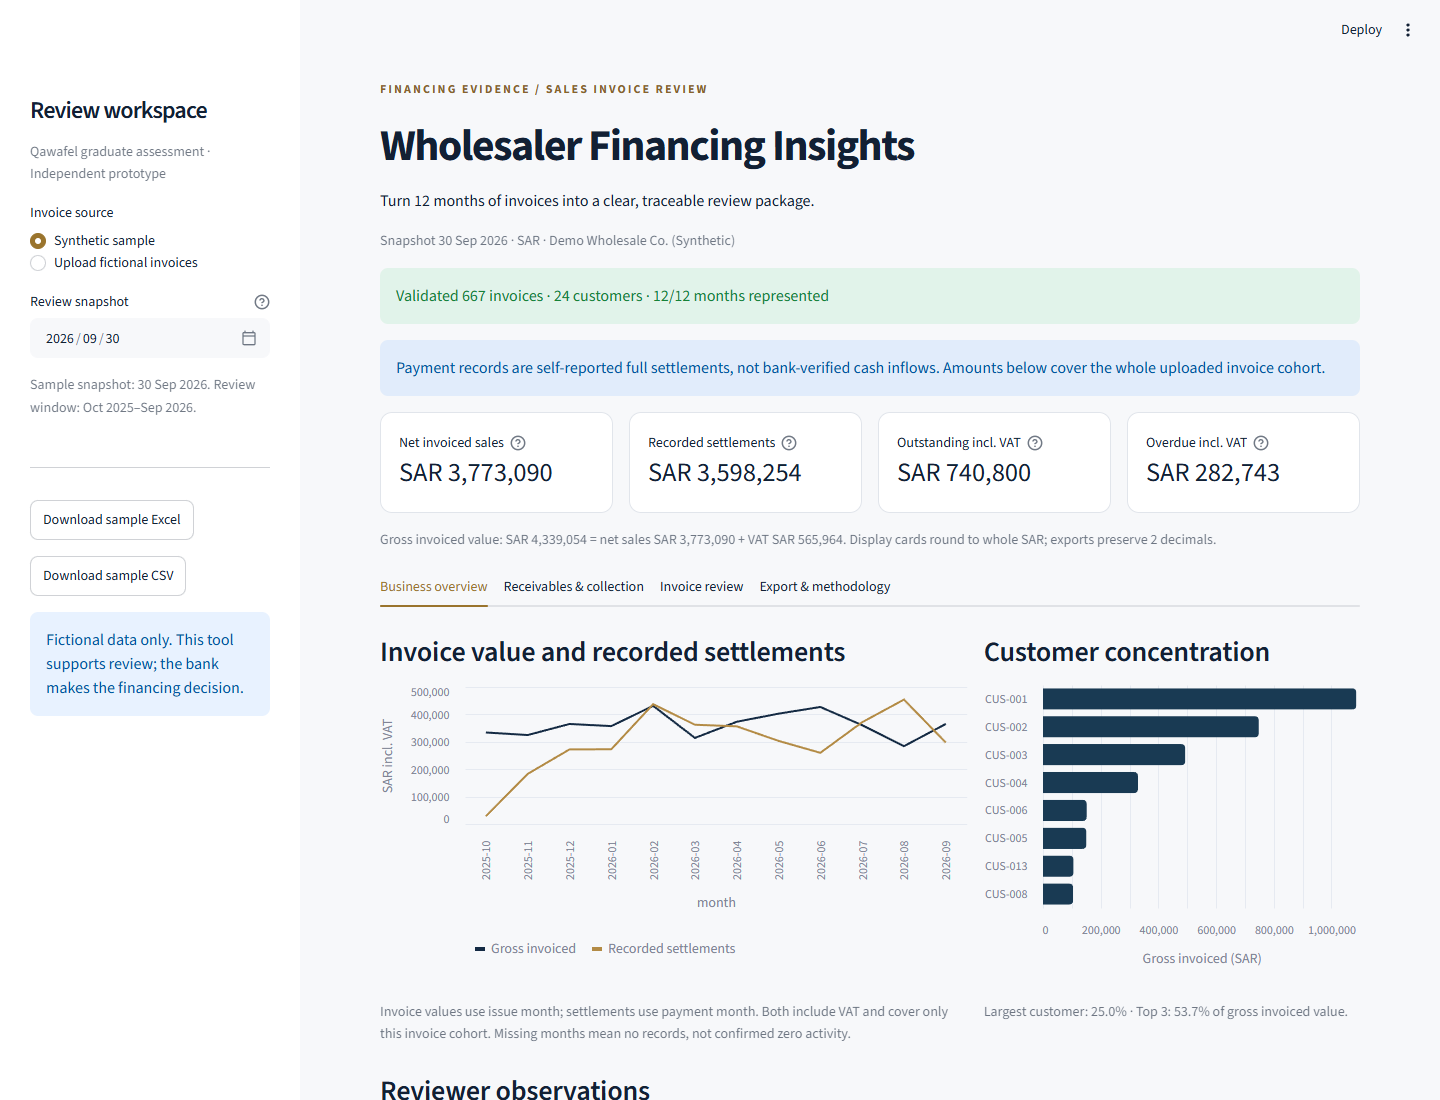
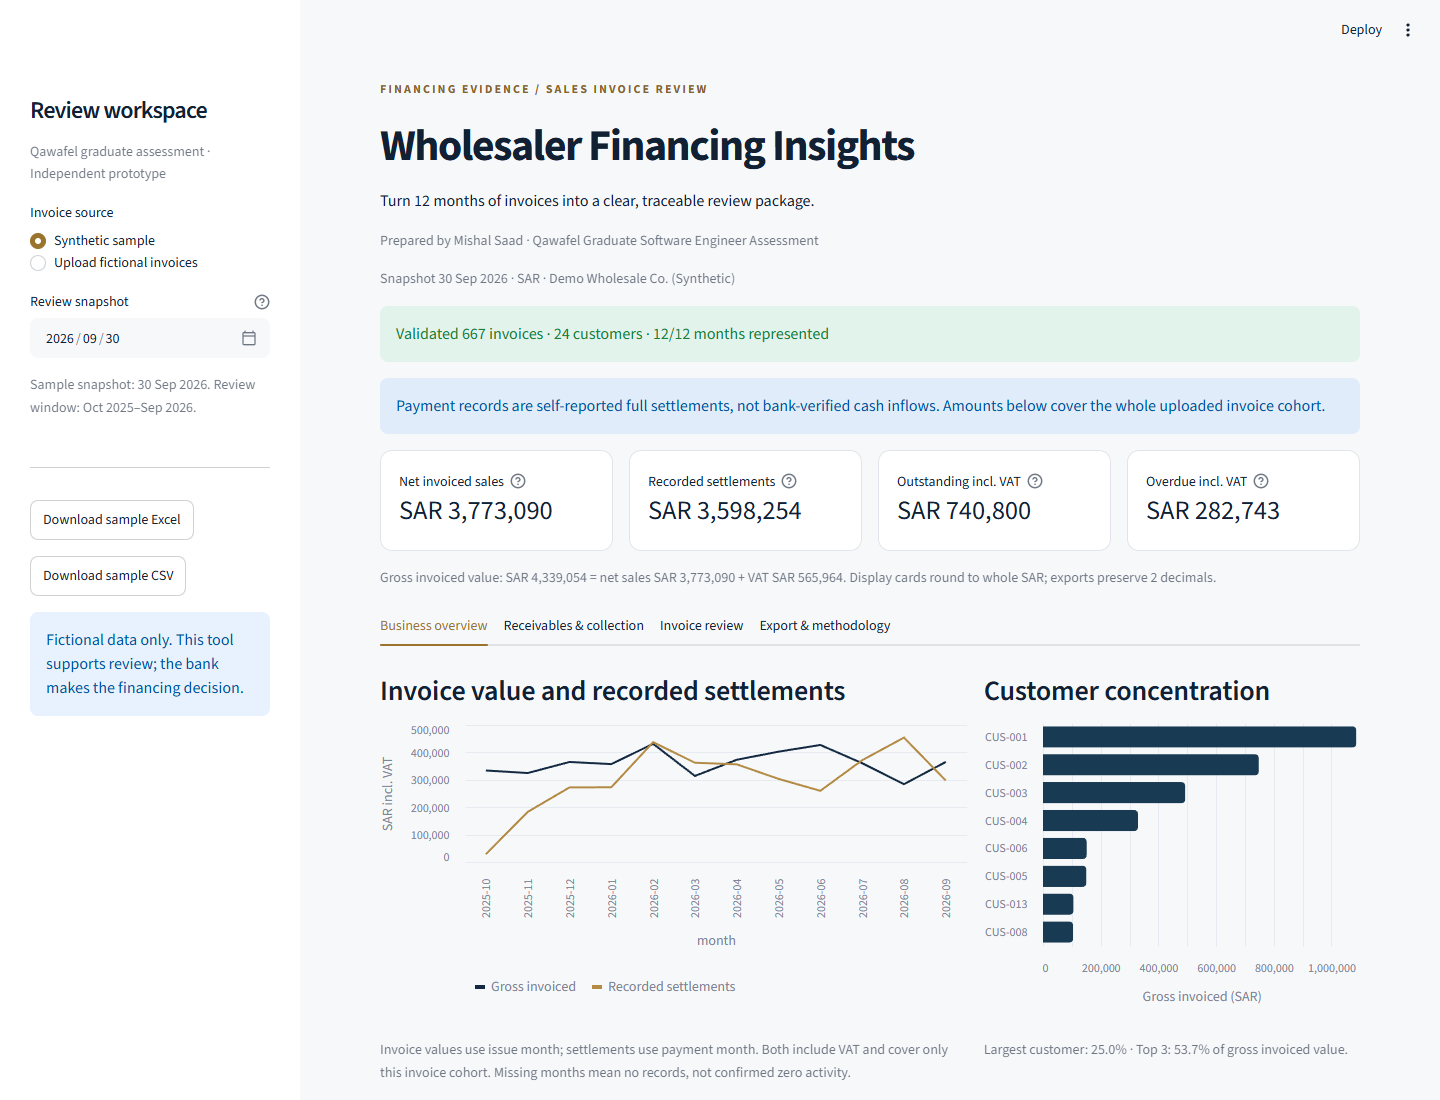
Add Mishal Saad attribution to assessment deliverables

diff --git a/tools/build_submission.py b/tools/build_submission.py
@@ -183,12 +183,12 @@ def build() -> Path:
         canvas.line(46, A4[1] - 34, A4[0] - 46, A4[1] - 34)
         canvas.setFont("Helvetica", 7.5)
         canvas.setFillColor(MUTED)
-        canvas.drawString(46, 25, "Qawafel graduate assessment | Independent candidate prototype | Synthetic data only")
+        canvas.drawString(46, 25, "Mishal Saad | Qawafel graduate assessment | Synthetic data only")
         canvas.drawRightString(A4[0] - 46, 25, f"{doc.page}")
         canvas.restoreState()
 
     document = SimpleDocTemplate(str(target), pagesize=A4, rightMargin=46, leftMargin=46, topMargin=48, bottomMargin=43,
-                                 title="Qawafel Graduate Software Engineer Assessment", author="Candidate submission")
+                                 title="Qawafel Graduate Software Engineer Assessment", author="Mishal Saad")
     document.build(story, onFirstPage=page_frame, onLaterPages=page_frame)
     print(target)
     return target

diff --git a/src/analysis.py b/src/analysis.py
@@ -103,6 +103,7 @@ def reviewer_summary(result: Analysis, as_of: date, anomaly_count: int | None = 
     ai_line = f"- AI review flags: {anomaly_count} unusual invoices, requiring human verification.\n" if anomaly_count is not None else "- AI anomaly review was not run.\n"
     return (
         f"# Preliminary financing evidence summary\n\n"
+        "Assessment prototype by Mishal Saad.\n\n"
         f"Snapshot: {as_of.isoformat()}. Scope: uploaded sales invoice cohort only.\n\n"
         f"- Invoices: {m['invoice_count']}; customers: {m['customer_count']}; months represented: {m['months_present']}/12.\n"
         f"- Net invoiced sales, excluding VAT: SAR {m['net_sales_sar']:,.2f}.\n"

diff --git a/app.py b/app.py
@@ -52,6 +52,7 @@ with st.sidebar:
 st.markdown('<div class="eyebrow">FINANCING EVIDENCE / SALES INVOICE REVIEW</div>', unsafe_allow_html=True)
 st.title("Wholesaler Financing Insights")
 st.write("Turn 12 months of invoices into a clear, traceable review package.")
+st.caption("Prepared by Mishal Saad · Qawafel Graduate Software Engineer Assessment")
 st.caption(f"Snapshot {snapshot:%d %b %Y} · SAR · {'Demo Wholesale Co. (Synthetic)' if source == 'Synthetic sample' else 'Uploaded fictional invoice cohort'}")
 
 if source == "Upload fictional invoices" and uploaded is None:

diff --git a/docs/verification.md b/docs/verification.md
@@ -4,7 +4,7 @@ Executed on 24 October 2026 using Python 3.12 on Windows. These are actual local
 
 ## Automated checks
 
-- `python -m pytest -q`: **35 passed** on the final code revision before packaging.
+- `python -m pytest -q`: **35 passed** on the completed prototype before initial packaging.
 - `python -m pip check`: **No broken requirements found**.
 - Generator checks: deterministic rows with seed 42; 667 unique invoice IDs; 24 fictional customers; all 12 months; exact net + VAT = gross; valid payment chronology.
 - Hand-calculated four-invoice fixture: gross SAR 1,150; settlements SAR 575; outstanding SAR 575; overdue SAR 230. Results match.
@@ -37,6 +37,10 @@ Generated the written assessment with reportlab, extracted its text, rendered al
 - Anonymous HTTP requests, with no authentication or stored session, returned 200 for the repository, README, sample CSV, dashboard screenshot, and [written PDF](https://raw.githubusercontent.com/Mishalsalq/qawafel-assessment/main/output/pdf/qawafel-assessment.pdf).
 - Downloaded PDF bytes exactly match the locally rendered/reviewed PDF.
 - The GitHub tree matched all 30 tracked files in the initial verified publication, including Git object hashes. Subsequent documentation-only updates record this delivery result and the submission checklist.
+
+## Candidate attribution update
+
+Added Mishal Saad's attribution to the PDF, README, app, exported summary, and supporting submission documents. Rebuilt and visually reviewed all eight PDF pages; verified that every page includes the name and PDF author metadata is Mishal Saad. Confirmed the app byline in the browser and refreshed the dashboard screenshot. The existing app and analysis checks passed: `python -m pytest tests/test_app.py tests/test_analysis.py -q` (**5 passed**).
 
 ## Not verified / remaining manual steps
 

diff --git a/docs/assessment_answers.md b/docs/assessment_answers.md
@@ -1,5 +1,7 @@
 # Qawafel Graduate Software Engineer Assessment
 
+**Prepared by: Mishal Saad**
+
 ## Scope and key decisions
 
 The working prototype turns a fictional wholesaler's sales invoices into a preliminary financing evidence package. It validates uploads, computes traceable financial indicators, highlights unusual invoices using unsupervised learning, and exports a reviewer summary. It does not decide creditworthiness.

diff --git a/README.md b/README.md
@@ -1,5 +1,7 @@
 # Wholesaler Financing Insights
 
+**Prepared by Mishal Saad** | Qawafel Graduate Software Engineer Assessment
+
 A focused Qawafel Graduate Software Engineer assessment prototype. It turns 12 months of fictional wholesale **sales** invoices into traceable evidence for a financing reviewer. The bank retains the lending decision.
 
 ![Synthetic invoice review dashboard](docs/assets/dashboard.png)

diff --git a/docs/ai_usage.md b/docs/ai_usage.md
@@ -1,5 +1,7 @@
 # AI use disclosure
 
+**Candidate: Mishal Saad**
+
 ## Development assistance
 
 OpenAI Codex was used to read and interpret the assessment, review earlier context supplied by the candidate, inspect Qawafel's public product pages, write and revise code and documentation, generate a reproducible fictional dataset, and execute validation and application checks.

diff --git a/docs/architecture.md b/docs/architecture.md
@@ -1,5 +1,7 @@
 # Proposed production architecture
 
+**Assessment submission by Mishal Saad**
+
 The Streamlit prototype implements invoice validation, analysis, anomaly review, and exports. All document workers, database entities, reconciliation, and bank services below are future production design.
 
 ## Process and trust boundaries

diff --git a/docs/assumptions.md b/docs/assumptions.md
@@ -1,5 +1,7 @@
 # Assumptions and limitations
 
+**Assessment submission by Mishal Saad**
+
 ## Synthetic data contract
 
 - One entirely fictional Saudi wholesaler sells goods to 24 numbered, explicitly synthetic retailers. These are the applicant's **sales** invoices, not purchase invoices.

diff --git a/docs/interview_walkthrough.md b/docs/interview_walkthrough.md
@@ -1,5 +1,7 @@
 # Technical walkthrough and interview preparation
 
+**Prepared for Mishal Saad**
+
 ## Five-minute demonstration
 
 1. State the business problem: help a financing reviewer understand a wholesaler's sales and collections without confusing invoices with bank-confirmed income.

diff --git a/docs/submission.md b/docs/submission.md
@@ -1,5 +1,7 @@
 # Submission checklist
 
+**Candidate: Mishal Saad**
+
 Deadline: 24 October 2026 at 23:59, Asia/Riyadh (UTC+3), as stated in the supplied assessment brief.
 
 ## Links to paste
